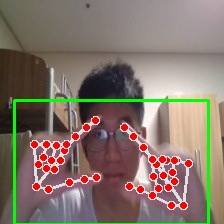
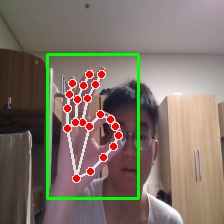
let boss' balloon to be popped even if its not in order

diff --git a/static/js/magic_touch.js b/static/js/magic_touch.js
@@ -325,14 +325,20 @@ function handlePrediction(letter, confidence) {
     if (cooldownActive) return;
 
     let targetEnemy = null;
+    let targetBalloonIndex = -1; // We now track specifically WHICH balloon matched
     let highestY = -Infinity;
 
     for (let i = 0; i < enemies.length; i++) {
         let e = enemies[i];
-        if (e.balloons.length > 0 && e.balloons[0].letter === letter) {
+        
+        // Search ALL balloons on the enemy for a match, regardless of order
+        let matchIndex = e.balloons.findIndex(b => b.letter === letter);
+        
+        if (matchIndex !== -1) {
             if (e.y > highestY) {
                 highestY = e.y;
                 targetEnemy = e;
+                targetBalloonIndex = matchIndex;
             }
         }
     }
@@ -346,7 +352,8 @@ function handlePrediction(letter, confidence) {
         }
 
         if (consecutiveFrames >= DEBOUNCE_THRESHOLD) {
-            registerHit(targetEnemy);
+            // Pass the exact index of the balloon to be popped
+            registerHit(targetEnemy, targetBalloonIndex);
 
             consecutiveFrames = 0;
             currentPredictedLetter = null;
@@ -362,10 +369,12 @@ function handlePrediction(letter, confidence) {
     }
 }
 
-function registerHit(targetEnemy) {
+function registerHit(targetEnemy, balloonIndex) {
     playSound(popSound);
 
-    let poppedBalloon = targetEnemy.balloons.shift(); 
+    // Remove the SPECIFIC balloon from the array, not just the first one
+    let poppedBalloonArray = targetEnemy.balloons.splice(balloonIndex, 1); 
+    let poppedBalloon = poppedBalloonArray[0];
 
     poppedBalloon.element.classList.add('popping');
     setTimeout(() => {

diff --git a/static/css/magic_touch.css b/static/css/magic_touch.css
@@ -327,7 +327,7 @@ body {
 .string {
     width: 2px;
     height: 20px;
-    background: #D1D5DB; /* Light gray string */
+    background: #D1D5DB;
     margin-top: -5px;
     z-index: -1;
 }
